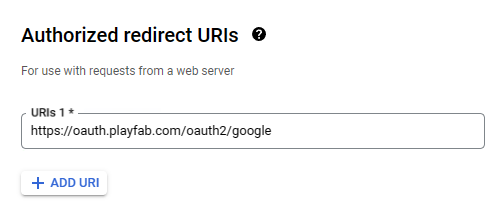
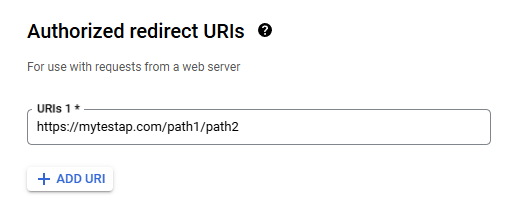
Updates in tutorials due to Google Deeplinking changes in Android 12+ (#2547)
* Updating fallback mechanism with redirect uri fix

* Updating Google Sign In Unity tutorial

* Addressing Acrolinx issues

* Addressing PR feedback

* Update google-play-games-sign-in-migration-fallback.md

---------

diff --git a/playfab-docs/features/authentication/platform-specific-authentication/google-play-games-sign-in-migration-fallback.md b/playfab-docs/features/authentication/platform-specific-authentication/google-play-games-sign-in-migration-fallback.md
@@ -1,7 +1,7 @@
 ---
 title: Migrating from Google Sign-in to Google Play Games Sign-in in Unity Fallback
 author: joannaleecy
-description: Fallback method for players that are still not using Google Play Games identity after upgrading Play Games Pluging for Unity plugin. 
+description: Fallback method for players that are still not using Google Play Games identity after upgrading Play Games Plugin for Unity plugin. 
 ms.author: joanlee
 ms.date: 06/11/2018
 ms.topic: article
@@ -12,13 +12,25 @@ ms.localizationpriority: medium
 
 # Fix for using LoginWithGoogleAccount on Play Games Plugin for Unity v0.11.x
 
+This article describes a workaround when you're getting errors back when using **LoginWithGoogleAccount** API after upgrading to a version of the Play Games Plugin for Unity.
+
+The error occurs when existing players didn't [migrate to use LoginWithGooglePlayGamesServices](google-play-games-sign-in-migration-details.md#migration-steps) after you've upgraded [Play Games Plugin for Unity](https://github.com/playgameservices/play-games-plugin-for-unity) to a version greater or equal than v0.11.x. The reason is because Google removed the possibility of adding extra scopes on plugin versions greater or equal than 0.11.x.
+
+This workaround should be considered as a fallback alternative since having to sign-in through the browser could affect player's experience.
+
+## Before we start
+
+Following these high level steps to fix authentication when using the newest version of the plugin.
+
+1. Manually calling the Google OAuth2 APIs
+2. Perform the player's auth in a browser tab
+3. Get a redirection auth code back to the game using Android deep linking.
+
 ## Recommendation
 
-While you're still using version 0.10.x of the plugin [migrate your users to use LoginWithGooglePlayGamesServices](google-play-games-sign-in-migration-details.md#migration-steps) API and use the following steps as a fallback method for the remainder of your players after upgrading to version 0.11.x or later of the plugin.
+While you're still using version 0.10.x of the plugin, [migrate your users to use LoginWithGooglePlayGamesServices](google-play-games-sign-in-migration-details.md#migration-steps) API. Use the following steps as a fallback method for the remainder of your players after upgrading to version 0.11.x or later of the plugin.
 
 ## Fix Steps
-
-If you're currently using LoginWithGoogleAccount API on your title and are getting errors when calling it after upgrading to newest versions of the Play Games Plugin for Unity, the only way to request extra scopes for your game is by manually calling the Google OAuth2 APIs, perform the player's auth in a browser tab, and then get a redirection auth code back to the game.
 
 1. Add Android intent to your Game using Deep Linking. (Steps adapted from [Unity - Manual: Deep linking on Android (unity3d.com)](https://docs.unity3d.com/2021.2/Documentation/Manual/deep-linking-android.html))
 
@@ -26,7 +38,7 @@ If you're currently using LoginWithGoogleAccount API on your title and are getti
 
     b. Create a new file and call it **AndroidManifest.xml**. Unity automatically processes this file when you build your application.
 
-    c. Copy the following code sample into the new file and save it.
+    c. Copy the following manifest sample into the new file, update the data element with your app's URI and save it. For more information on how to build a proper data tag, see [this article](https://developer.android.com/guide/topics/manifest/data-element).
 
     ```xml
     <?xml version="1.0" encoding="utf-8"?>
@@ -46,8 +58,8 @@ If you're currently using LoginWithGoogleAccount API on your title and are getti
     
             <data
                 android:scheme="https"
-                android:host="oauth.playfab.com"
-                android:path="/oauth2/google" />
+                android:host="mytestapp.com"
+                android:path="/path1/subpath" />
             </intent-filter>
             
         </activity>
@@ -55,126 +67,131 @@ If you're currently using LoginWithGoogleAccount API on your title and are getti
     </manifest>
     ```
 
-    d. Make sure the **autoVerify** property exists on the intent-filter tag and make sure that the data tag matches with **"https://oauth.playfab.com/oauth2/google"** since this is the expected and the only valid redirection URI on PlayFab.
- 
-2. Add Deep Linking processing to your Game. (Steps adapted from [Unity - Manual: Deep linking (unity3d.com)](https://docs.unity3d.com/2021.2/Documentation/Manual/deep-linking.html#using-deep-links)).
+    d. Make sure the **autoVerify** property exists on the intent-filter tag.
 
-```csharp
-using GooglePlayGames;
-using GooglePlayGames.BasicApi;
-using PlayFab;
-using PlayFab.ClientModels;
-using System;
-using UnityEngine;
-using UnityEngine.UI;
+2. In order for deep linking to work, starting in Android 12, Google is now requiring developers to host an assetlinks.json file in a well-known location to successfully redirect to your app.
 
-public class ProcessDeepLinkMngr : MonoBehaviour
-{
-    public static ProcessDeepLinkMngr Instance { get; private set; }
+    For example, if your redirect URI is https://mytestapp.com/path1/subpath, you should host a valid assetlinks.json file in https://mytestapp.com/.well-known/assetlinks.json, otherwise deep linking doesn't work and you don't get redirected back to your app to continue.
+    For details on how to create an assetlinks.json file see [Verify Android App Links](https://developer.android.com/training/app-links/verify-android-applinks).
+    
+3. Add Deep Linking processing to your Game. (Steps adapted from [Unity - Manual: Deep linking (unity3d.com)](https://docs.unity3d.com/2021.2/Documentation/Manual/deep-linking.html#using-deep-links)).
 
-    private void Awake()
+    ```csharp
+    using GooglePlayGames;
+    using GooglePlayGames.BasicApi;
+    using PlayFab;
+    using PlayFab.ClientModels;
+    using System;
+    using UnityEngine;
+    using UnityEngine.UI;
+
+    public class ProcessDeepLinkMngr : MonoBehaviour
     {
-        if (Instance == null)
+        public static ProcessDeepLinkMngr Instance { get; private set; }
+
+        private void Awake()
         {
-            Instance = this;
-            Application.deepLinkActivated += onDeepLinkActivated;
-            if (!string.IsNullOrEmpty(Application.absoluteURL))
+            if (Instance == null)
             {
-                // Cold start and Application.absoluteURL not null so process Deep Link.
-                onDeepLinkActivated(Application.absoluteURL);
-            }
-
-            DontDestroyOnLoad(gameObject);
-        }
-        else
-        {
-            Destroy(gameObject);
-        }
-    }
-
-    private void onDeepLinkActivated(string url)
-    {
-        Debug.Log("Got Deeplink Activated: " + url);
-
-        // Decode the URL to extract auth code. 
-        string queryParams = url.Split("?"[0])[1];
-        string[] keyValuePairs = queryParams.Split("&");
-        string authCode = string.Empty;
-
-        foreach (string s in keyValuePairs)
-        {
-            if (s.StartsWith("code"))
-            {
-                authCode = s.Split("=")[1];
-                break;
-            }
-        }
- 
-        if (!string.IsNullOrEmpty(authCode))
-        {
-            // Call the LoginWithGoogleAccount using the auth code
-            Debug.Log("Authenticating to PlayFab using LoginWithGoogleAccount...");
-
-            // Make sure to unescape string
-            authCode = Uri.UnescapeDataString(authCode);
-
-            var request = new LoginWithGoogleAccountRequest
-            {
-                ServerAuthCode = authCode,
-                CreateAccount = true,
-                TitleId = PlayFabSettings.TitleId
-            };
- 
-            PlayFabClientAPI.LoginWithGoogleAccount(request,
-                (LoginResult result) => {
-                    Debug.Log("PlayFab LoginWithGoogleAccount Success.");
-                },
-                (PlayFabError error) => {
-                    Debug.Log("PlayFab LoginWithGoogleAccount Failure: " + error.GenerateErrorReport());
+                Instance = this;
+                Application.deepLinkActivated += onDeepLinkActivated;
+                if (!string.IsNullOrEmpty(Application.absoluteURL))
+                {
+                    // Cold start and Application.absoluteURL not null so process Deep Link.
+                    onDeepLinkActivated(Application.absoluteURL);
                 }
-            );
+
+                DontDestroyOnLoad(gameObject);
+            }
+            else
+            {
+                Destroy(gameObject);
+            }
         }
-        else
+
+        private void onDeepLinkActivated(string url)
         {
-            Debug.Log("Error when getting Auth Code.");
+            Debug.Log("Got Deeplink Activated: " + url);
+
+            // Decode the URL to extract auth code. 
+            string queryParams = url.Split("?"[0])[1];
+            string[] keyValuePairs = queryParams.Split("&");
+            string authCode = string.Empty;
+
+            foreach (string s in keyValuePairs)
+            {
+                if (s.StartsWith("code"))
+                {
+                    authCode = s.Split("=")[1];
+                    break;
+                }
+            }
+    
+            if (!string.IsNullOrEmpty(authCode))
+            {
+                // Call the LoginWithGoogleAccount using the auth code
+                Debug.Log("Authenticating to PlayFab using LoginWithGoogleAccount...");
+
+                // Make sure to unescape string
+                authCode = Uri.UnescapeDataString(authCode);
+
+                var request = new LoginWithGoogleAccountRequest
+                {
+                    ServerAuthCode = authCode,
+                    CreateAccount = true,
+                    TitleId = PlayFabSettings.TitleId
+                };
+    
+                PlayFabClientAPI.LoginWithGoogleAccount(request,
+                    (LoginResult result) => {
+                        Debug.Log("PlayFab LoginWithGoogleAccount Success.");
+                    },
+                    (PlayFabError error) => {
+                        Debug.Log("PlayFab LoginWithGoogleAccount Failure: " + error.GenerateErrorReport());
+                    }
+                );
+            }
+            else
+            {
+                Debug.Log("Error when getting Auth Code.");
+            }
         }
     }
-}
-```
+    ```
  
-3. Add some code to launch a browser to the Google OAuth2 API and let the player login via the browser. If the player is already logged in on their browser the transition will be seamless, otherwise they'll need to input their credentials.
- 
-```csharp
-private string authorizationEndpoint = "https://accounts.google.com/o/oauth2/v2/auth";
-private string redirectURI = "https://oauth.playfab.com/oauth2/google";
-private object clientID = "[WEB-APPLICATION-CLIENT-ID]";
-private string scopes = "profile";
+4. Add some code to launch a browser to the Google OAuth2 API and let the player sign-in via the browser. If the player is already logged in on their browser the transition is seamless, otherwise they need to input their credentials.
 
-private void LaunchBrowserAuth()
-{
-    string authorizationRequest = string.Format("{0}?response_type=code&scope={1}&redirect_uri={2}&client_id={3}",
-            authorizationEndpoint,
-            scopes,
-            Uri.EscapeDataString(redirectURI),
-            clientID);
+    ```csharp
+    private string authorizationEndpoint = "https://accounts.google.com/o/oauth2/v2/auth";
+    private string redirectURI = "[APPLICATION-REDIRECT-URI]";
+    private object clientID = "[WEB-APPLICATION-CLIENT-ID]";
+    private string scopes = "profile";
 
-    Application.OpenURL(authorizationRequest);
-}
-```
-As you can observe, the redirection URI matches with the Android intent filter we added in step 1, this means that when the user finishes their authentication, the browser will navigate to that redirect URI and the browser should ask the user if they want to navigate back to the application.
+    private void LaunchBrowserAuth()
+    {
+        string authorizationRequest = string.Format("{0}?response_type=code&scope={1}&redirect_uri={2}&client_id={3}",
+                authorizationEndpoint,
+                scopes,
+                Uri.EscapeDataString(redirectURI),
+                clientID);
+
+        Application.OpenURL(authorizationRequest);
+    }
+    ```
+    The redirection URI must match with the Android intent filter we added in step 1. So, when the user finishes authentication, the browser navigates to that redirect URI and the browser should ask the user if they want to navigate back to the application.
  
-4. Now, you should be ready to test this out. So, when you trigger the auth you'll get a browser open and user must log in accordingly. Unless browser data is deleted, this step should be a one-time process.
+5. Now, you should be ready to test this out. So, when you trigger the auth you should get a browser open and user must sign-in accordingly. Unless browser data is deleted, this step should be a one-time process.
  
     ![Using LoginWithGoogleAccount Step 1](media/tutorials/google-unity/LWGA-fix-1.png)
  
-5. After completing the authentication, the browser will ask on which application should open the redirect URL.
+6. After the user completes the authentication, the browser will ask on which application should open the redirect URL.
  
     ![Using LoginWithGoogleAccount Step 2](media/tutorials/google-unity/LWGA-fix-2.png)
  
-6. This will navigate back to our application and we'll be able to get the code from the query parameters on the redirect URL and proceed to call LoginWithGoogleAccount.
+7. This action navigates back to our application and we can get the code from the query parameters on the redirect URL and proceed to call LoginWithGoogleAccount.
  
     ![Using LoginWithGoogleAccount Step 3](media/tutorials/google-unity/LWGA-fix-3.png)
  
-7. Lastly, we recommend using this as a fallback alternative for any users that couldn't be migrated using the [migration steps](google-play-games-sign-in-migration-details.md#migration-steps).
+8. Lastly, we recommend using this method as a fallback alternative for any users that couldn't be migrated using the [migration steps](google-play-games-sign-in-migration-details.md#migration-steps).
  
 ***Please keep in mind that you should keep track of which users are already migrated to use LoginWithGooglePlayGamesServices and prefer to use the automatic login mechanism provided by the plugin and use this as a workaround for users who haven't been migrated over.***

diff --git a/playfab-docs/features/authentication/platform-specific-authentication/google-sign-in-unity.md b/playfab-docs/features/authentication/platform-specific-authentication/google-sign-in-unity.md
@@ -76,7 +76,7 @@ Now that you know your title API Endpoint, follow the steps outlined [here](http
 
     ![Authorized Javascript Origins](media/tutorials/google-unity/google-unity-authorized-javascript-origins.png) 
 
-- Also, make sure to add `https://oauth.playfab.com/oauth2/google` as an **Authorized Redirect URI**. If you don't do this step, you get a **mismatch redirect_uri** error.
+- Also, make sure to add your own application redirect URI as an **Authorized Redirect URI**. If you don't do this step, you'll get a **mismatch redirect_uri** error.
 
     ![Authorized Redirect URIs](media/tutorials/google-unity/google-unity-authorized-redirect-uris.png) 
 
